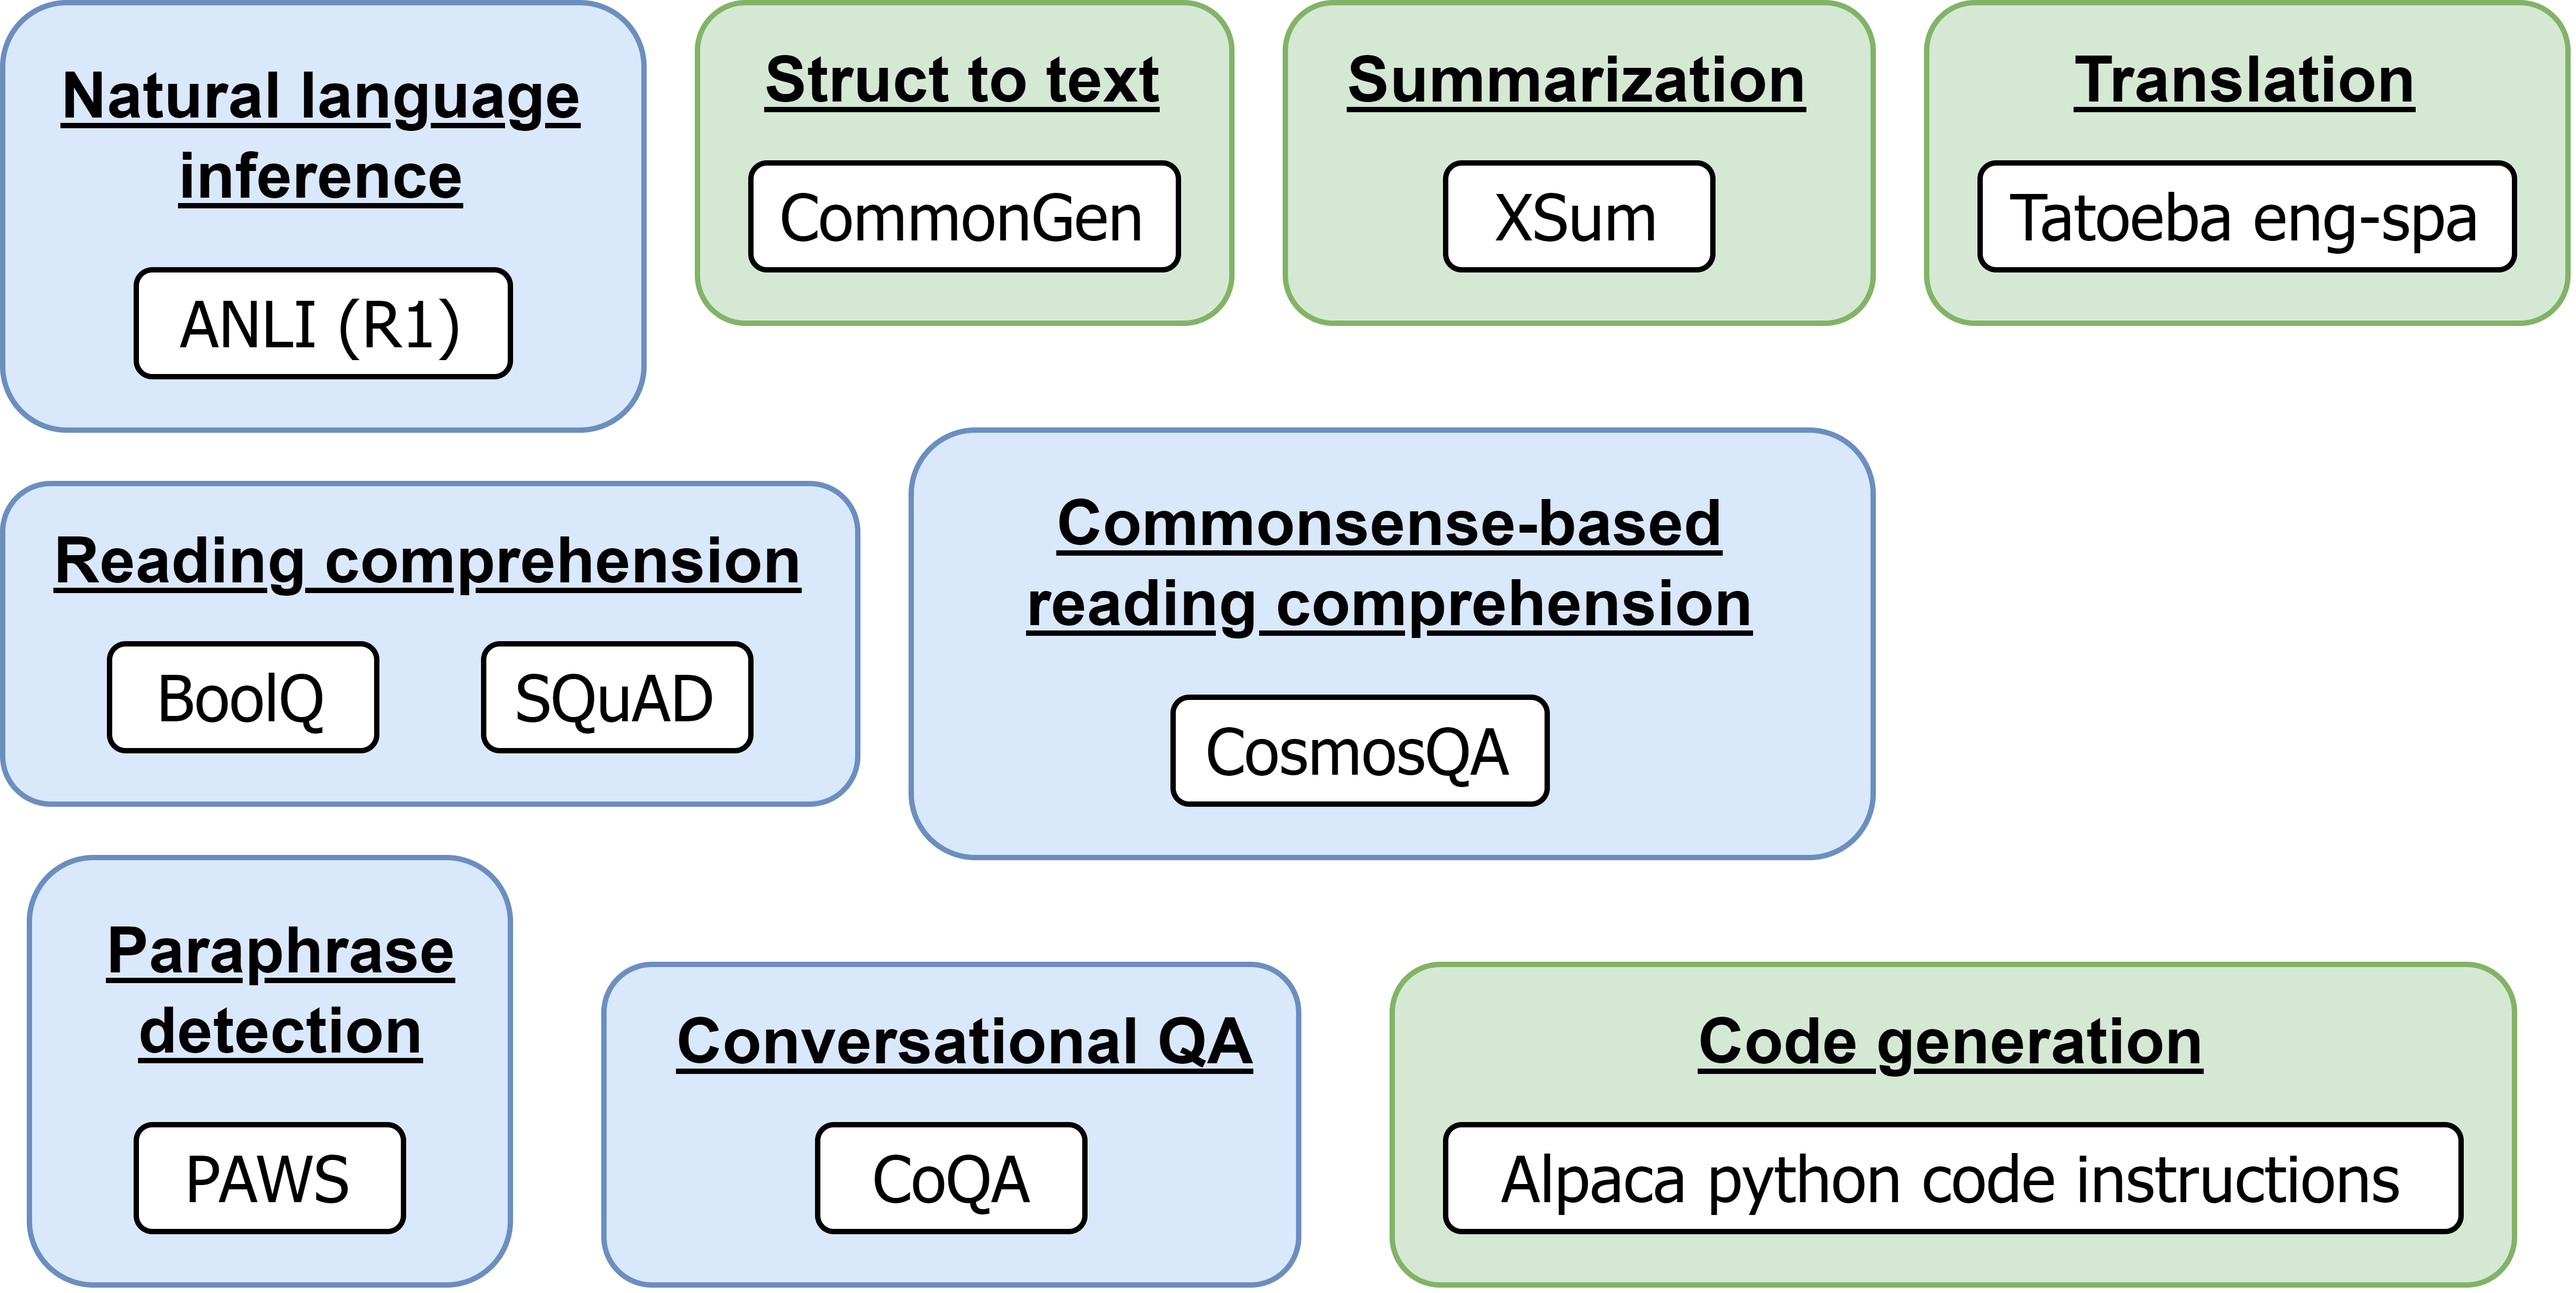
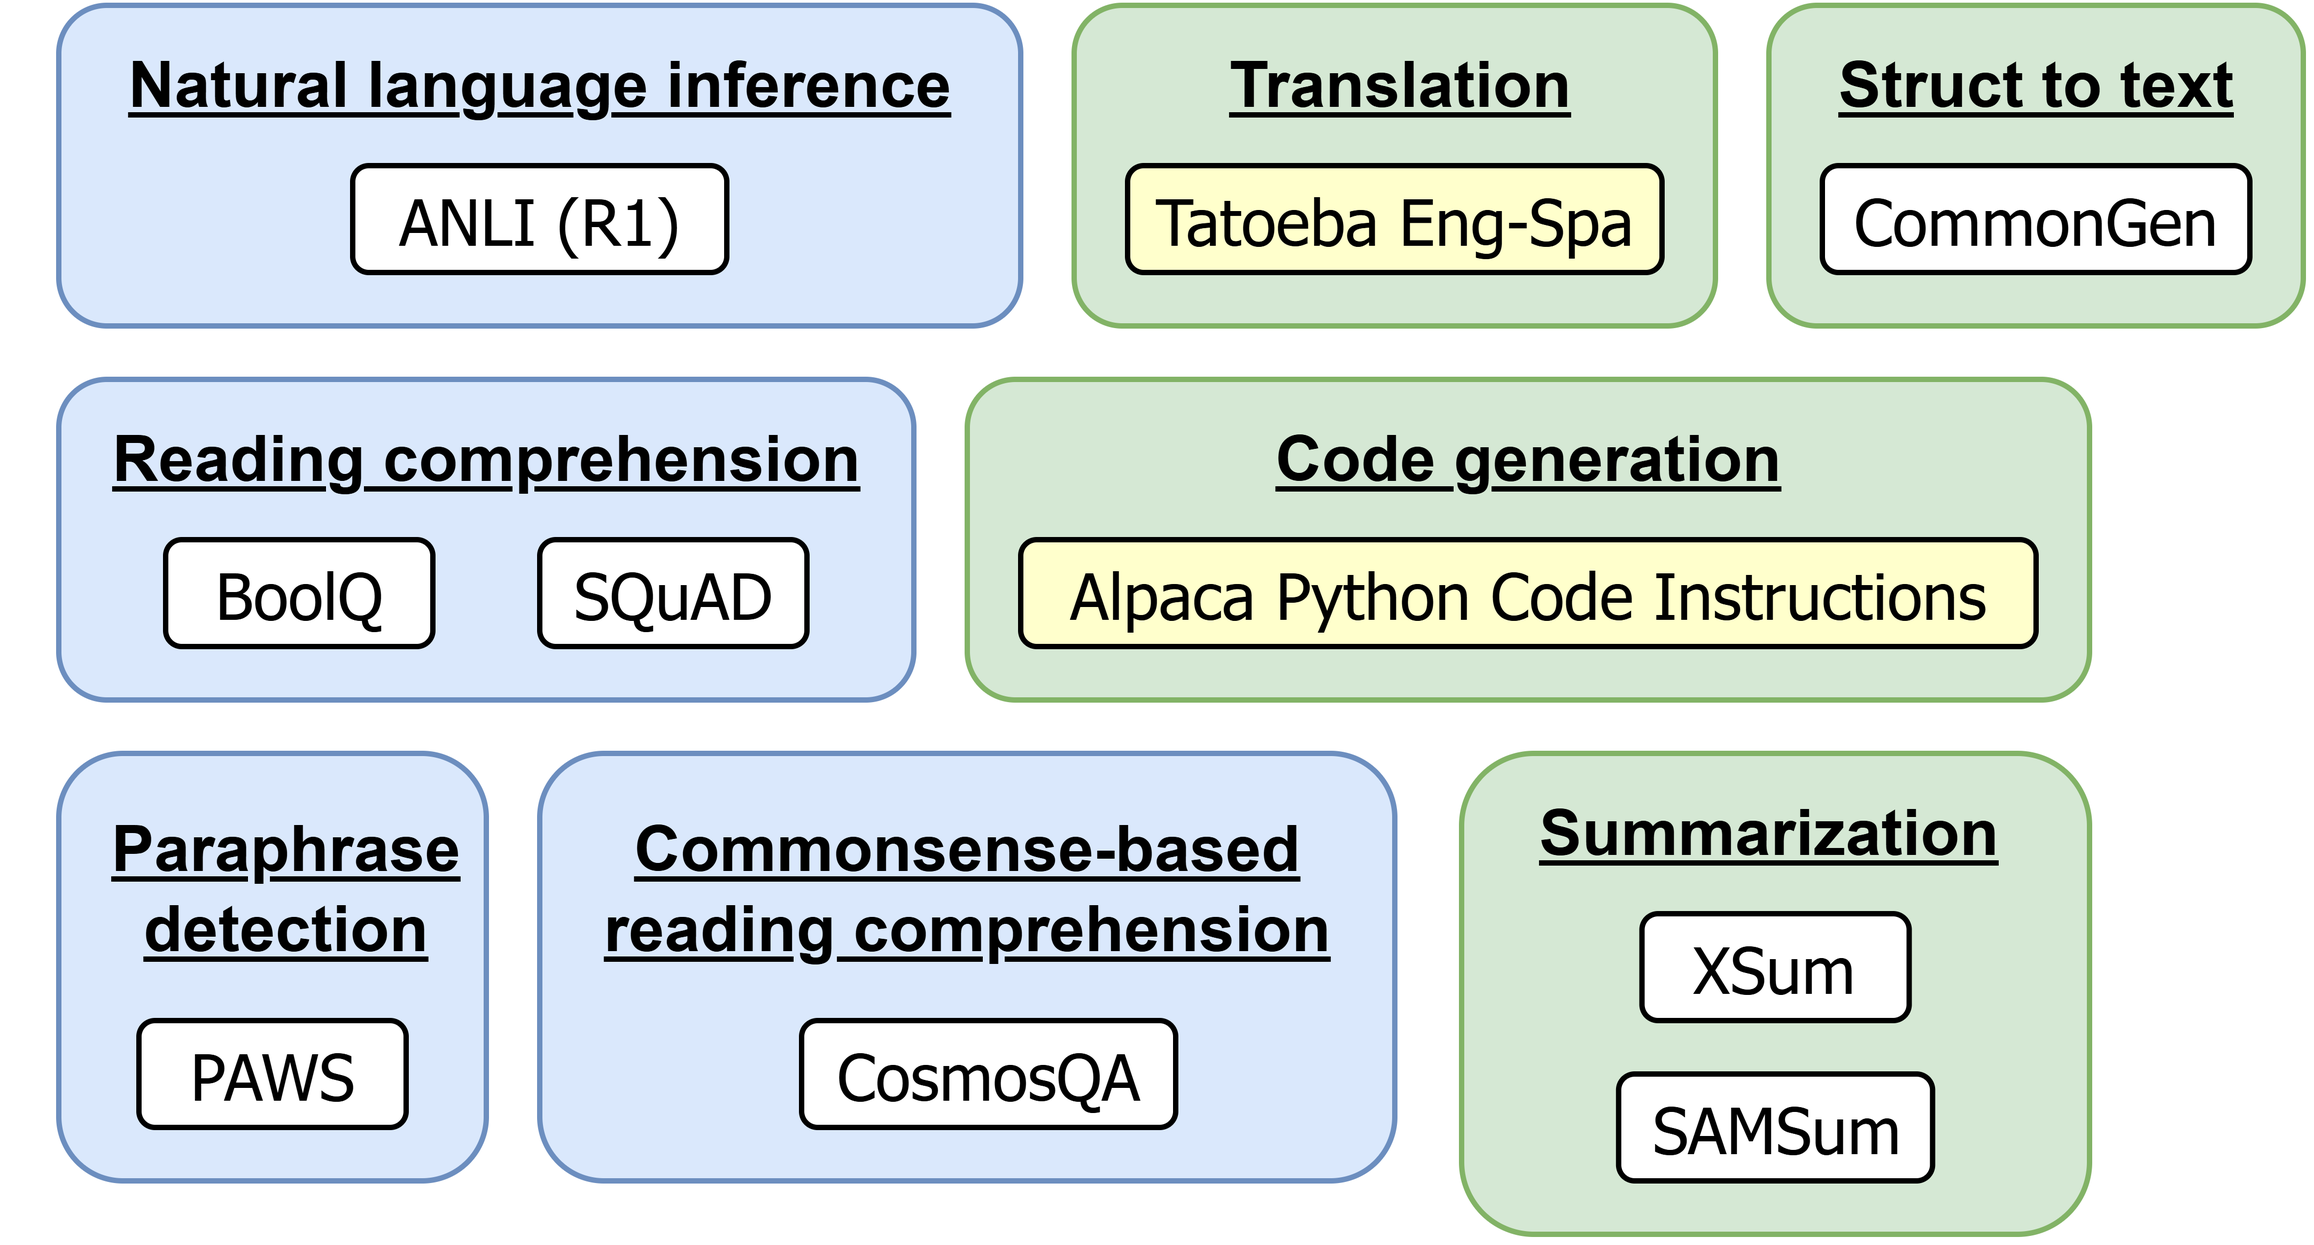
fix: update evaluation results and remove outdated CSV files

diff --git a/README.md b/README.md
@@ -24,16 +24,29 @@ For the training data, we used a custom subset of the Muffin collection (i.e. [F
 
 For now, we only focus on benchmarking with train dataset and comparing with teacher's family models.
 
-| Model                             |  ANLI (acc) | BoolQ (acc) | CommonGen (rg-1) | XSum (rg-LSum) |
-|-----------------------------------|-------------|-------------|------------------|----------------|
-| google/flan-t5-small              | 0.008       | 0.2         | 0.275            | 0.175          |
-| google/flan-t5-base               | 0.216       | 0.534       | 0.307            | 0.217          |
-| google/flan-t5-large              | 0.298       | 0.634       | 0.333            | 0.254          |
-| google/flan-t5-xl                 | 0.686       | 0.796       | 0.345            | 0.277          |
-| google/flan-t5-xxl (quantized)    | 0.568       | 0.784       | 0.352            | 0.277          |
-| google/flan-t5-small-distilled-xl | 0.32        | 0.564       | 0.120            | 0.150          |
-| OscarNav/GPT-2-med-finetuned      | 0.308       | 0.37        | 0.247            | 0.131          |
-| OscarNav/GPT-2-med-distilled      | 0.374       | 0.37        | 0.259            | 0.141          |
+| Model             | Params (M) | BoolQ Acc. | SQuAD F1 | SAMSum R-L | SAMSum BS | ANLI Acc. | PAWS Acc. | XSum R-L | XSum BS | CommonGen R-L | CommonGen Cov. | CosmosQA Acc. |
+|------------------|------------|------------|----------|-------------|-----------|-----------|-----------|-----------|----------|----------------|------------------|----------------|
+| **Train**         |            |            |          |             |           |           |           |           |          |                |                  |                |
+| FLAN-T5-Small     | 80         | 42.5       | 78.0     | 29.6        | 89.5      | 32.1      | 52.6      | 18.1      | 87.1     | 27.4           | 69.6             | 40.0           |
+| FLAN-T5-Base      | 250        | 72.3       | 89.9     | 34.8        | 90.6      | 35.1      | 91.5      | 22.3      | 88.6     | 34.1           | 86.8             | 60.1           |
+| FLAN-T5-Large     | 780        | 75.1       | 90.8     | 38.2        | 91.5      | 34.3      | 97.1      | 26.1      | 89.7     | 38.6           | 92.4             | 83.3           |
+| FLAN-T5-XL        | 3,000      | 86.0       | 91.9     | 40.0        | 91.9      | 90.0      | 96.0      | 26.9      | 90.1     | 37.9           | 96.0             | 90.0           |
+| FLAN-T5-XXL       | 11,000     | 88.0       | 92.6     | 39.9        | 91.7      | 92.0      | 94.0      | 27.8      | 90.5     | 39.2           | 95.3             | 87.0           |
+| GPT-2-Med-FT      | 345        | 77.8       | 60.4     | 31.9        | 88.5      | 42.0      | 66.0      | **19.0**  | **75.9** | 31.5           | 74.6             | **39.0**       |
+| GPT-2-Med-KD      | 345        | **77.9**   | **72.8** | **39.0**    | **90.0**  | **46.0**  | **78.0**  | 18.1      | 72.5     | **42.0**        | **94.0**          | 35.0           |
+| Pythia-410M-FT    | 410        | **82.0**   | 67.6     | **30.0**    | **89.9**  | 48.0      | **74.0**  | 14.8      | **75.2** | **41.0**        | 87.3             | 37.0           |
+| Pythia-410M-KD    | 410        | 77.9       | **67.7** | 22.5        | 84.0      | **60.0**  | 56.0      | **17.2**  | 73.0     | 40.9           | **90.6**          | **49.0**       |
+| SmolLM-360M-FT    | 360        | 74.0       | **85.3** | **38.4**    | **89.8**  | 46.0      | 66.0      | 16.5      | 69.5     | 38.5           | **93.3**          | 31.0           |
+| SmolLM-360M-KD    | 360        | **77.9**   | 65.7     | 17.6        | 64.0      | **56.0**  | **68.0**  | **17.1**  | **73.1** | **43.1**        | 92.0             | **32.0**       |
+| **Test**          |            |            |          |             |           |           |           |           |          |                |                  |                |
+| FLAN-T5-XL        | 3,000      | 80.0       | 93.9     | 38.0        | 91.4      | 74.0      | 90.0      | 26.9      | 90.3     | 32.8           | 90.6             | 84.0           |
+| GPT-2-Med-FT      | 345        | 78.0       | 67.2     | 23.6        | 88.6      | 24.0      | 62.0      | 8.8       | **79.2** | 23.5           | 64.0             | **34.0**       |
+| GPT-2-Med-KD      | 345        | **78.4**   | **73.5** | **30.4**    | **90.0**  | **31.3**  | **62.7**  | **8.9**   | 76.1     | **31.0**        | **81.0**          | 33.3           |
+| Pythia-410M-FT    | 410        | 76.0       | 56.8     | 31.7        | **90.3**  | **42.0**  | 38.0      | 4.5       | 76.3     | **30.8**        | **78.0**          | **32.0**       |
+| Pythia-410M-KD    | 410        | **78.0**   | **63.4** | **32.0**    | 90.1      | 30        | **57.9**  | **8.12**  | **81.2** | 29.9           | 77.3             | 30.0           |
+| SmolLM-360M-FT    | 360        | 68.0       | 54.9     | 31.5        | 90.4      | 36.0      | **62.0**  | 6.1       | 77.4     | 32.0           | 81.9             | 30.0           |
+| SmolLM-360M-KD    | 360        | **78.0**   | **56.6** | **38.6**    | **93.1**  | **36.9**  | 60.0      | **10.3**  | **79.0** | **33.6**        | **95.3**          | **33.0**       |
+
 
 We compared results using our evaluation benchmarks, which consists of the dev (validation) and test split of the 8 white datasets. We used 200 examples for XSum and CoQA and 500 for the rest. We used rank classification to compute accuracy on ANLI, BoolQ, PAWS and CosmosQA. Only a single template was used for evaluation since we wanted to avoid instructions that could turn a task from NLU to NLG. The FLAN-T5-XXL was the larger model evaluated for his experiments but because it was validated using the same hardware that was used for training, we used 4-bit quantization to fit its weights into memory but loose some accuracy in the process. For the ANLI and PAWS datasets, our KD outperforms its teacher, presumably because the teacher was in disadvantage as it was trained with different ground-truth labels. This highlight the need to train with larger or finetune teachers to achieve better performance.
 
